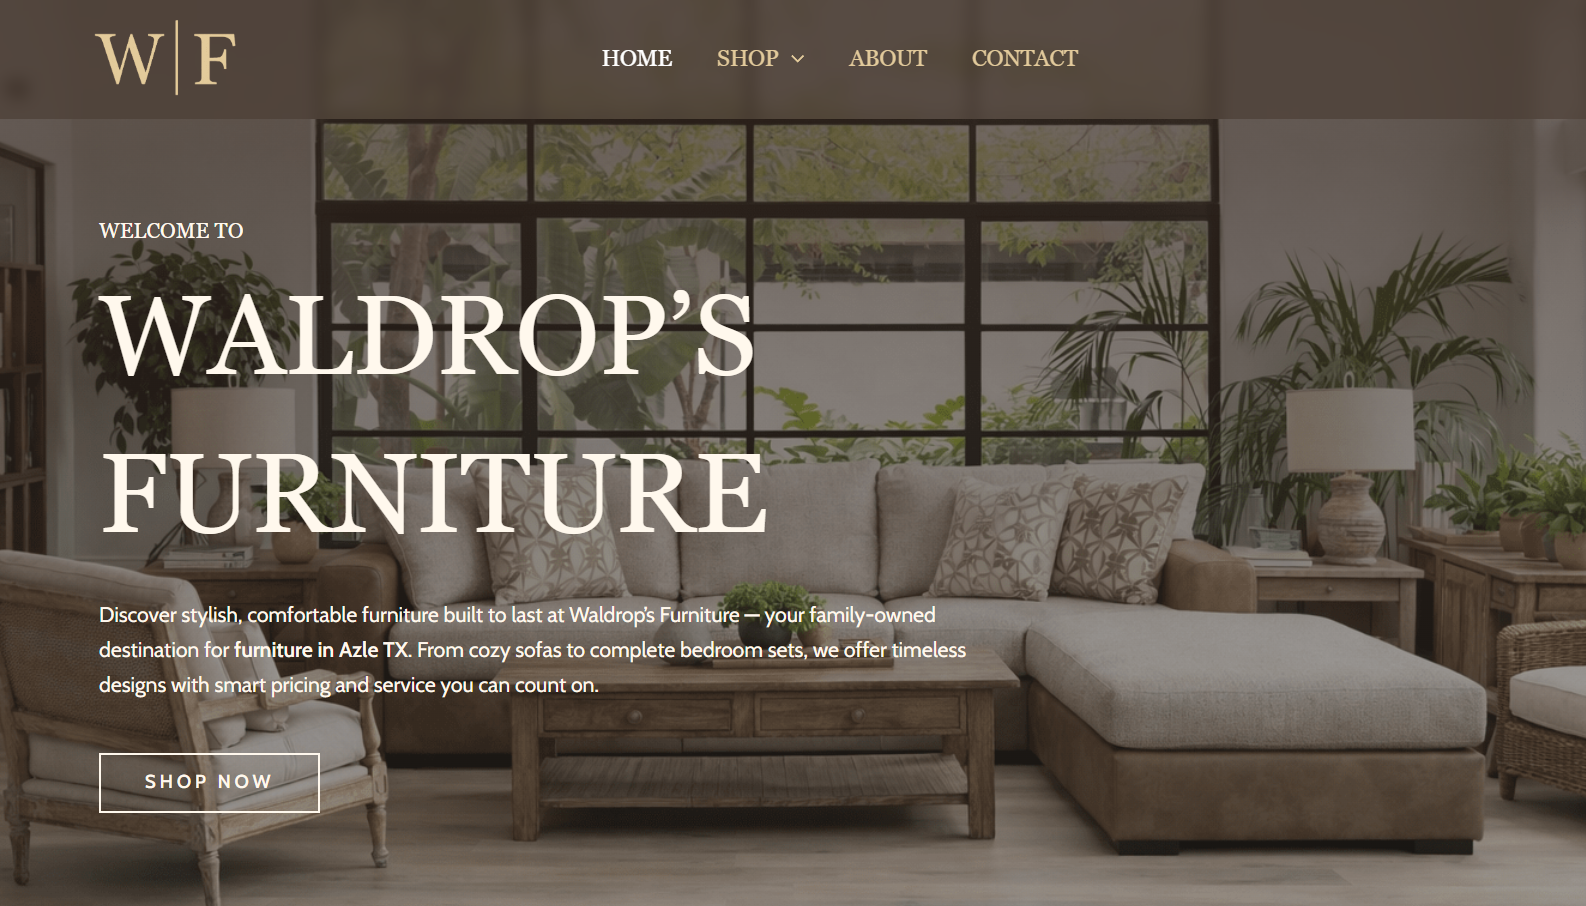
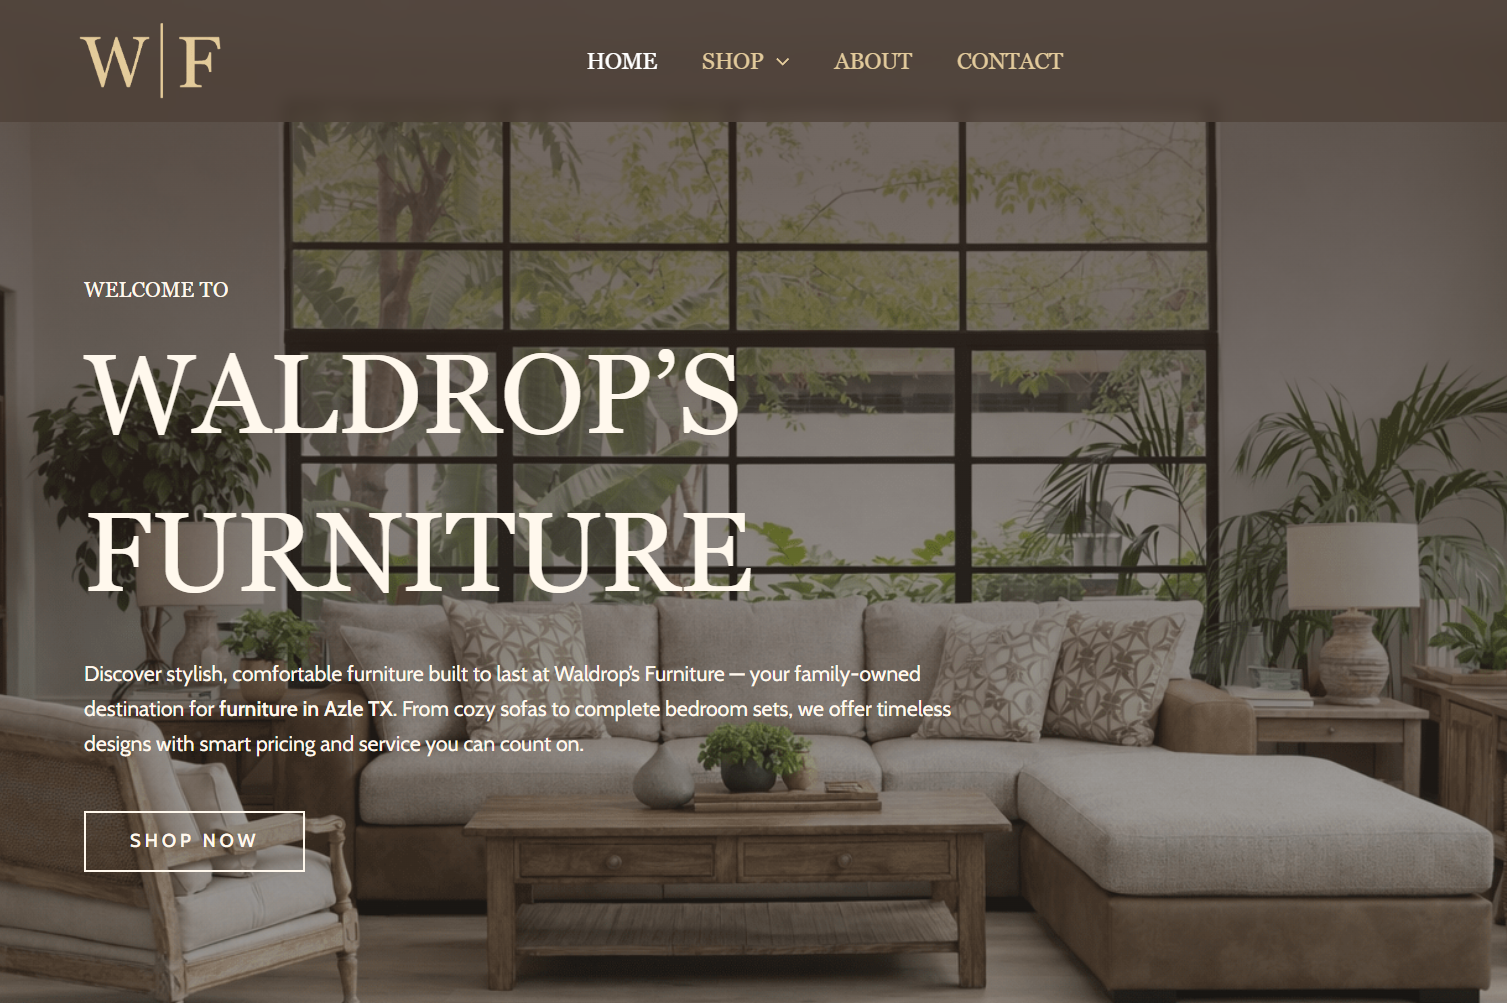
fix(image): update project image with correct ratio

diff --git a/app/components/Projects.tsx b/app/components/Projects.tsx
@@ -36,7 +36,7 @@ function Projects() {
                 "HTML5",
                 "WPForms",
               ]}
-              imageUrl="/WF2.png"
+              imageUrl="/WF.png"
               imageAlt="Waldrops Furniture Website Screenshot"
               siteUrl="https://waldropsfurniture.com"
             />
